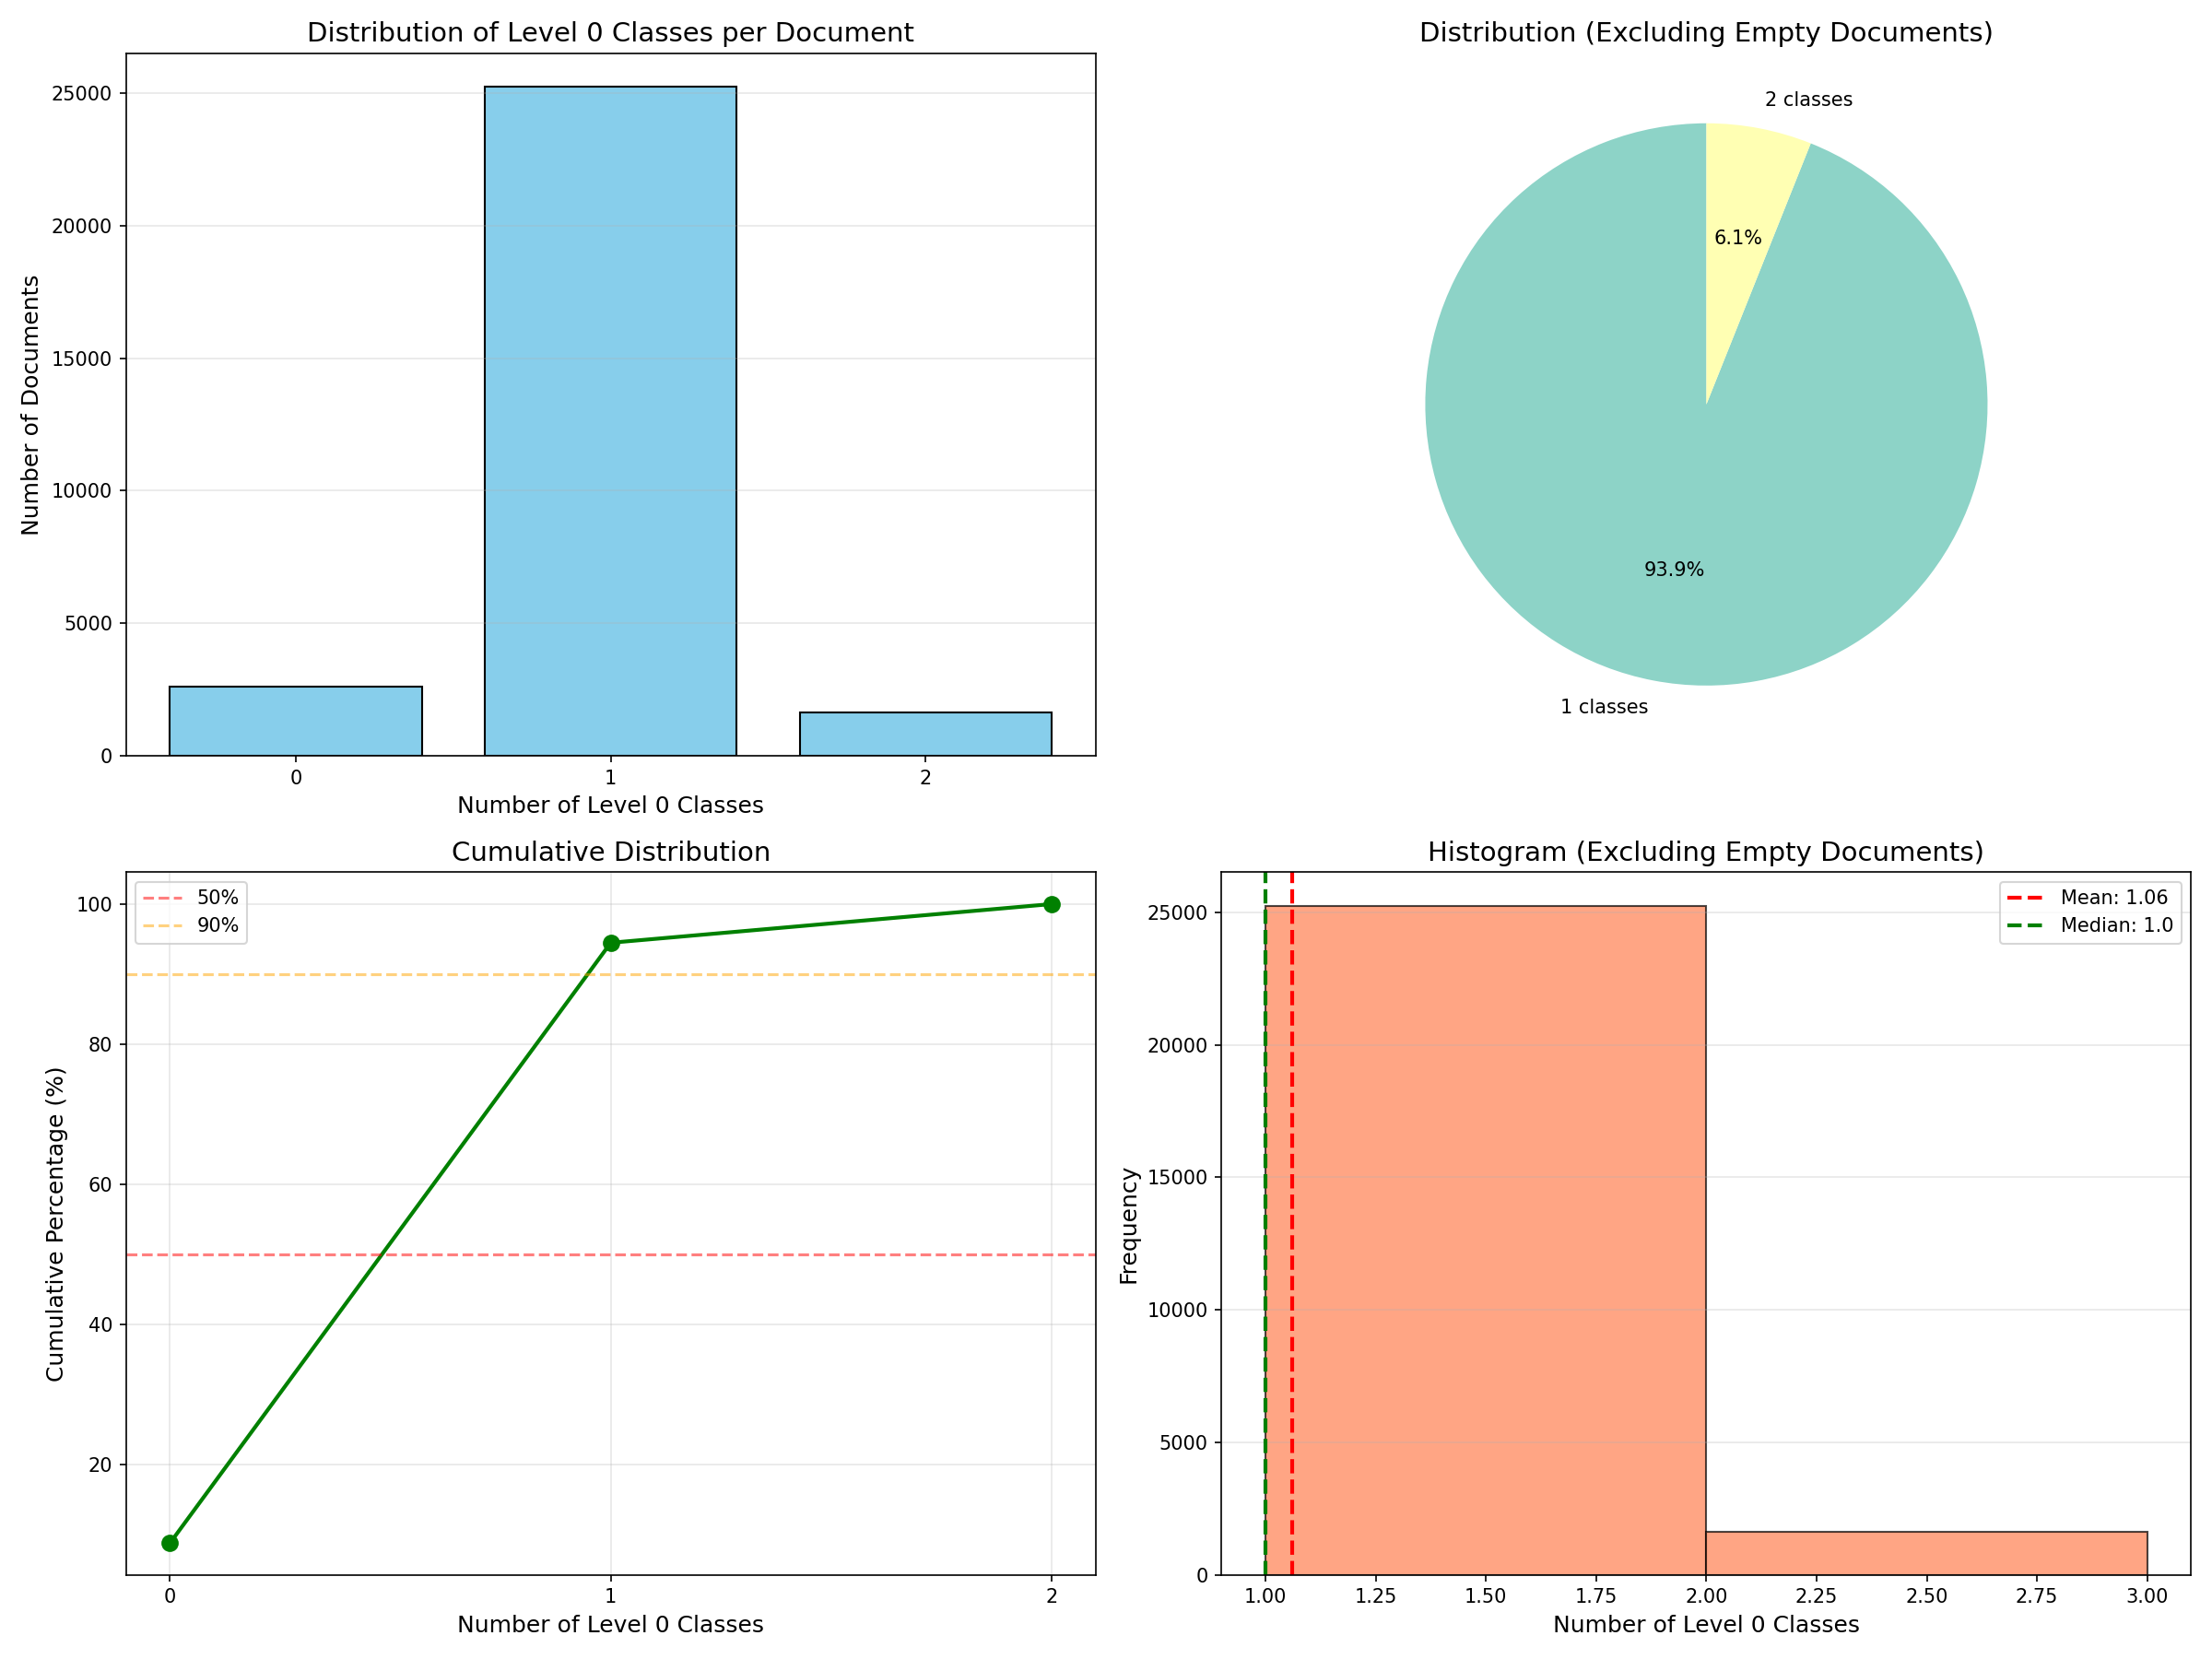
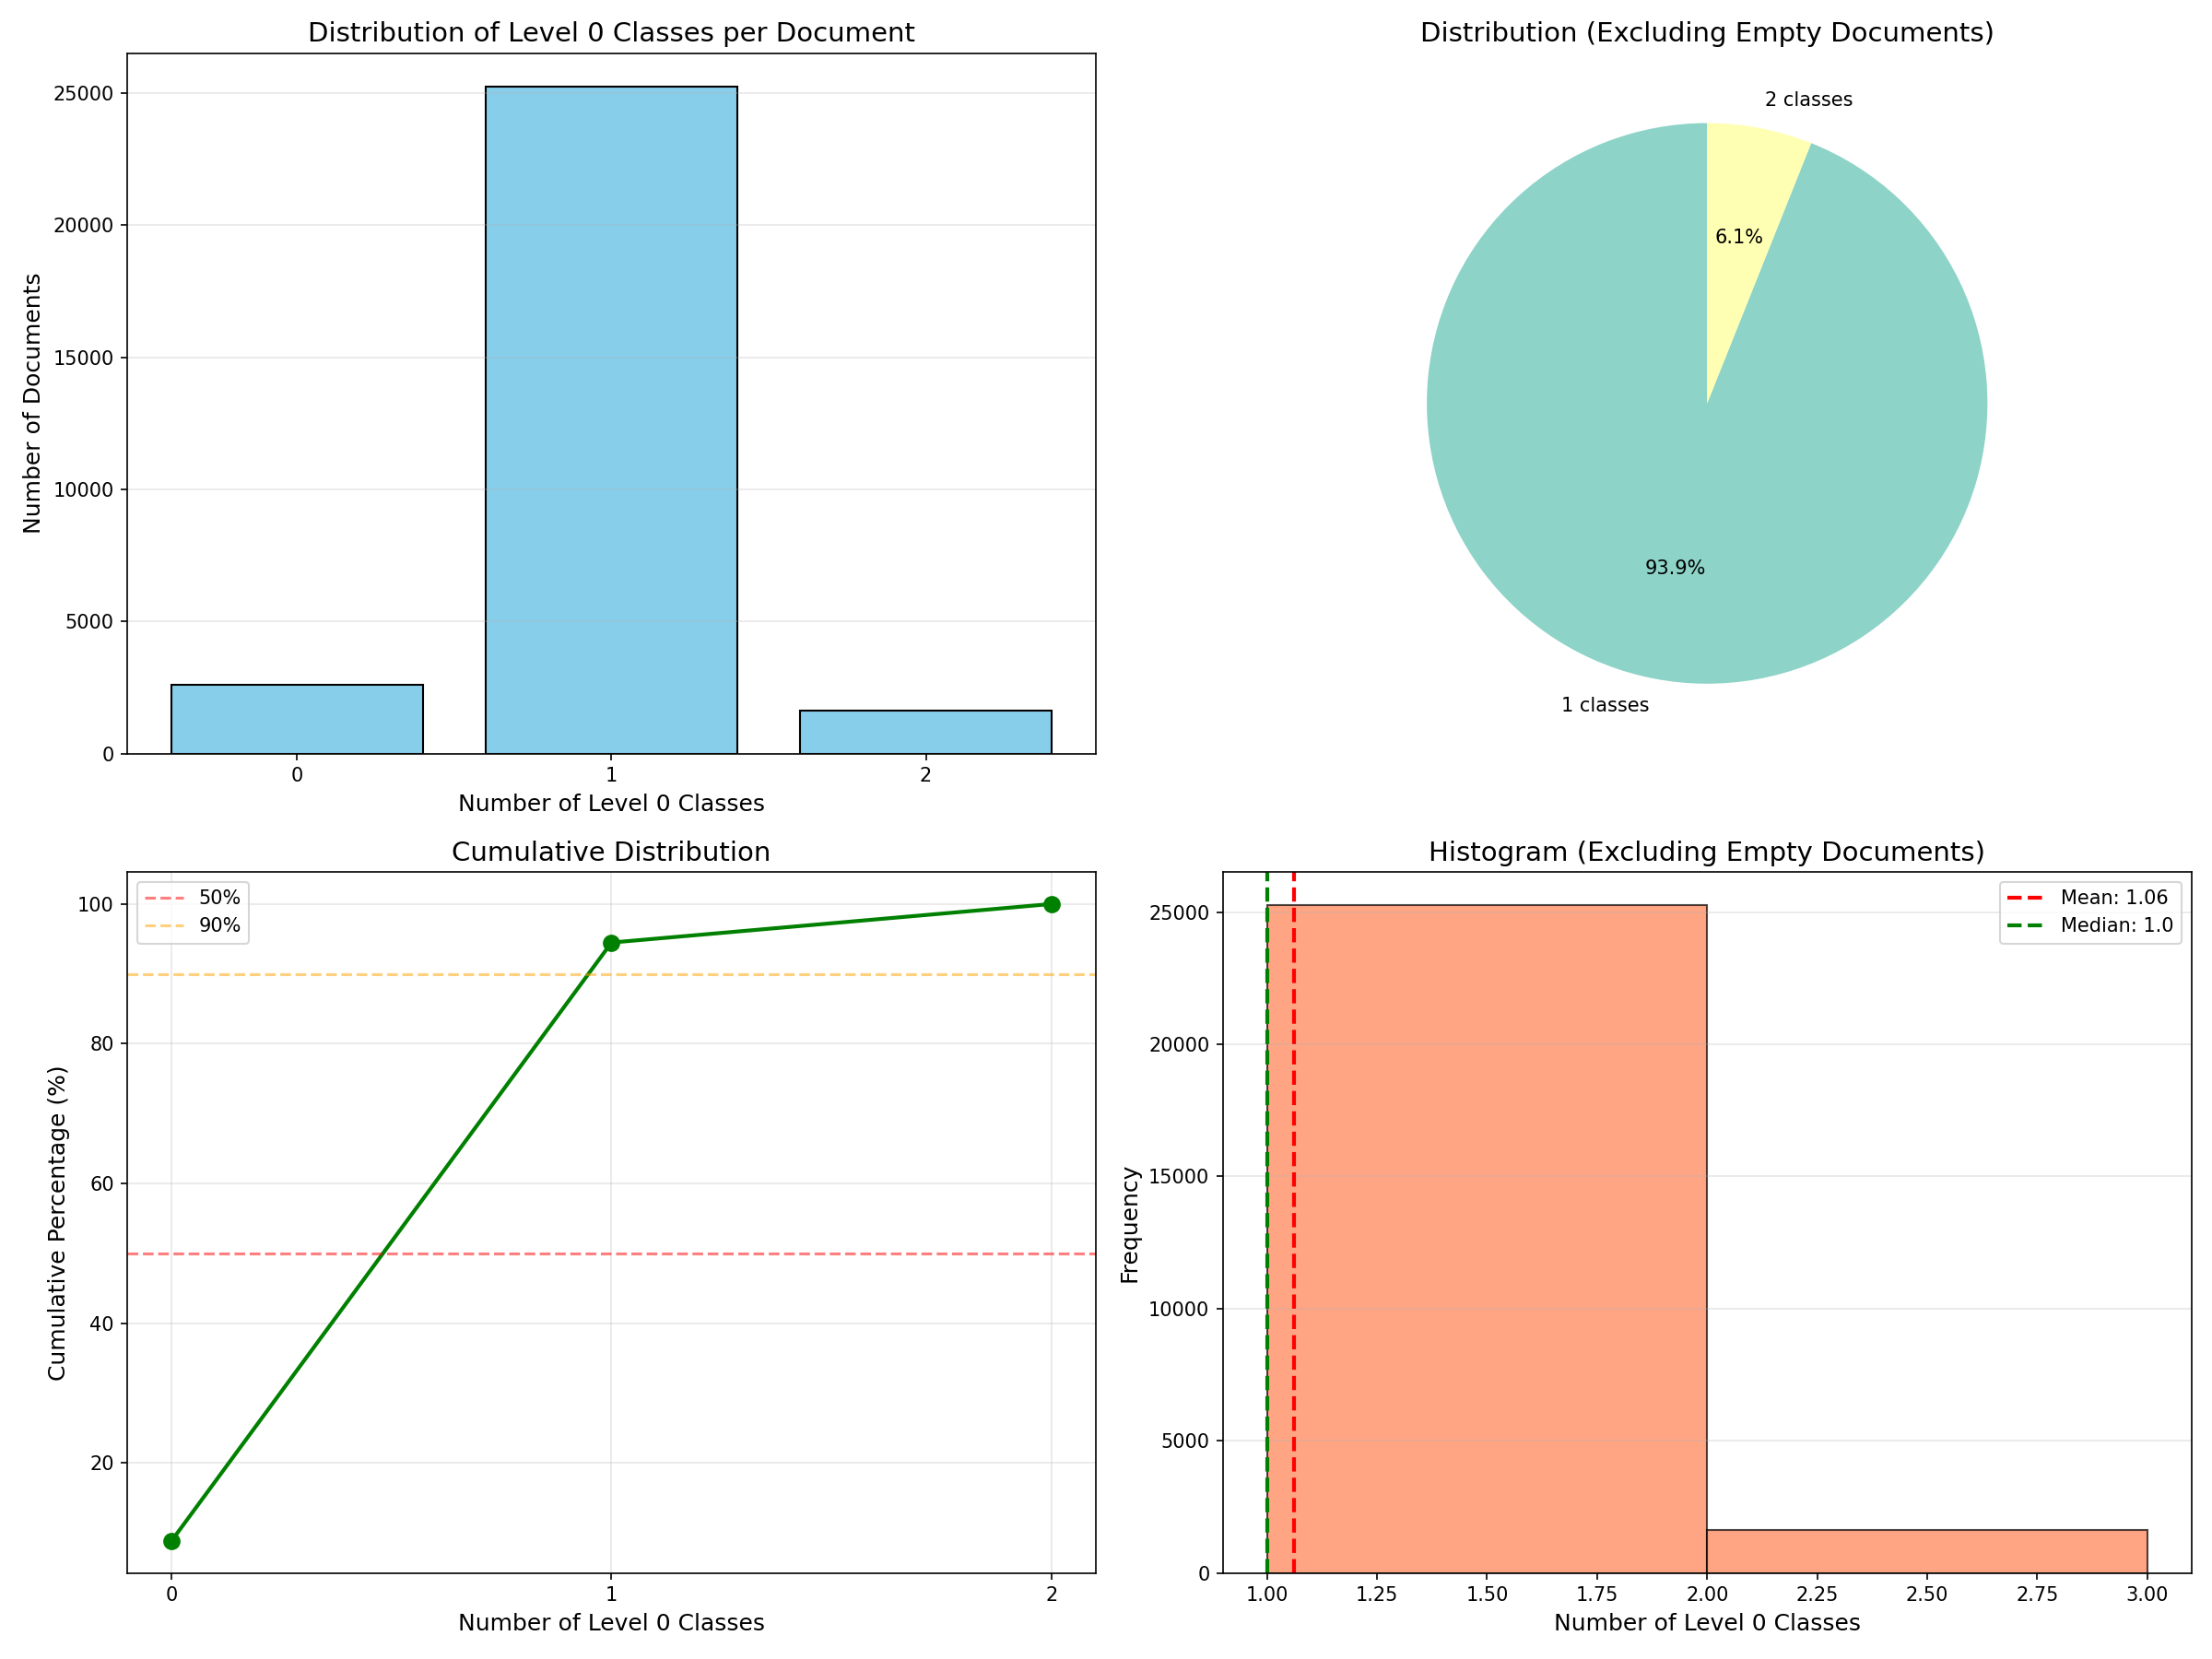
Best 0.57555 with epoch 20 threshold 0.5

diff --git a/predict_submission.py b/predict_submission.py
@@ -89,7 +89,7 @@ def main():
     # 4. Load Checkpoint
     # Find the latest checkpoint
     latest_ckpt = None
-    for i in range(11, 0, -1): # Check up to 10 iterations
+    for i in range(22, 0, -1): # Check up to 10 iterations
         ckpt_path = os.path.join(CHECKPOINT_DIR, f'warmup_epoch_{i}.pth')
         if os.path.exists(ckpt_path):
             latest_ckpt = ckpt_path
@@ -129,7 +129,7 @@ def main():
     for i in range(len(test_doc_ids)):
         # Adaptive Thresholding Logic
         p = probs[i]
-        selected = np.where(p > 0.65)[0]
+        selected = np.where(p > 0.5)[0]
         
         if len(selected) < 2:
             selected = np.argsort(p)[-2:]

diff --git a/main.py b/main.py
@@ -163,7 +163,7 @@ def main():
     model = trainer.supervised_training_loop(
         model, filtered_corpus, bert_tokenizer, 
         filtered_targets, filtered_masks, device, 
-        epochs=11, batch_size=64, lr=5e-5
+        epochs=22, batch_size=64, lr=5e-5
     )
 
 